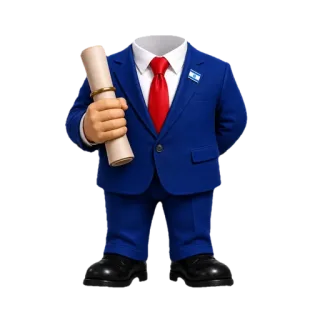
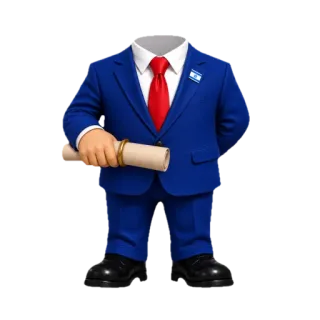
New paper sprites for both sides
Same filenames, so nothing in the code moved — sol_co_paper and sol_op_paper at 512 with the 320px
board variants regenerated alongside.

Checked the framing before trusting them: the alpha bounding boxes land at 0.107-0.918 and
0.107-0.900 of the canvas, against 0.117-0.908 for the art they replace and 0.066-0.932 for
sol_co_rock. Feet at the same height as their siblings, so the figures sit on the tile rather than
floating or sinking.

Claude-Session: https://claude.ai/code/session_01HEqBvSM6eEtNAXoE2tLvyE

diff --git a/client/src/version.ts b/client/src/version.ts
@@ -1,2 +1,2 @@
 /** X.YY.ZZ — YY advances by 1 for a big build/feature milestone, ZZ by 1 every deploy. */
-export const APP_VERSION = '1.08.90';
+export const APP_VERSION = '1.08.91';
